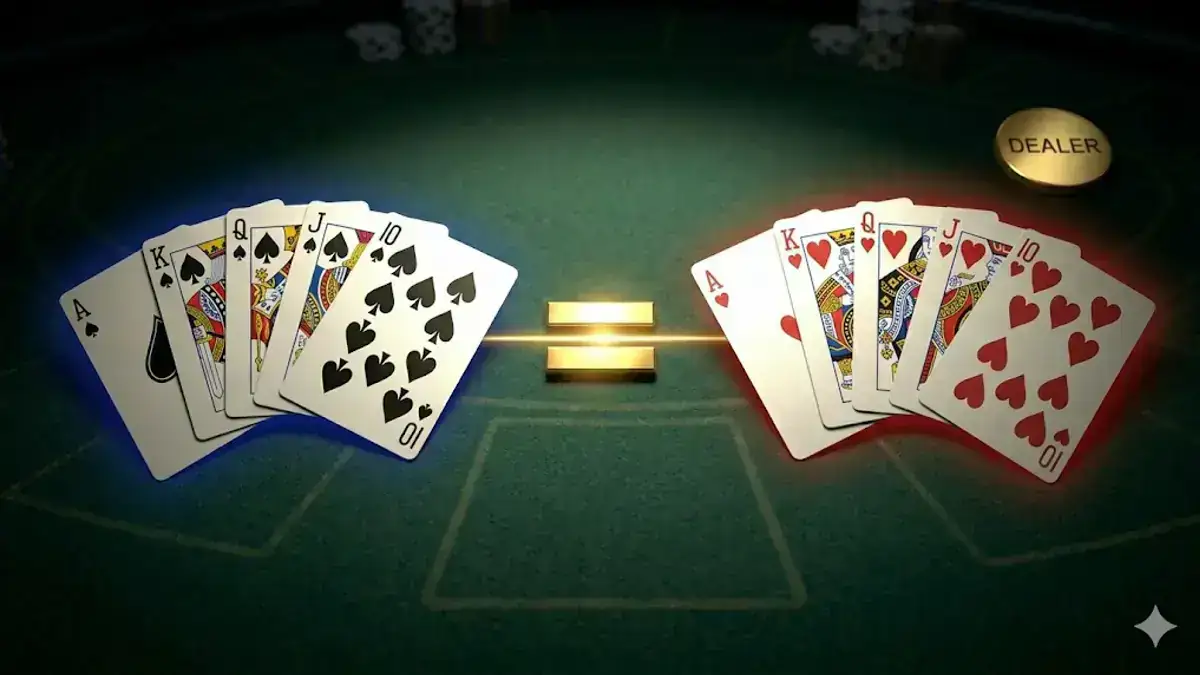
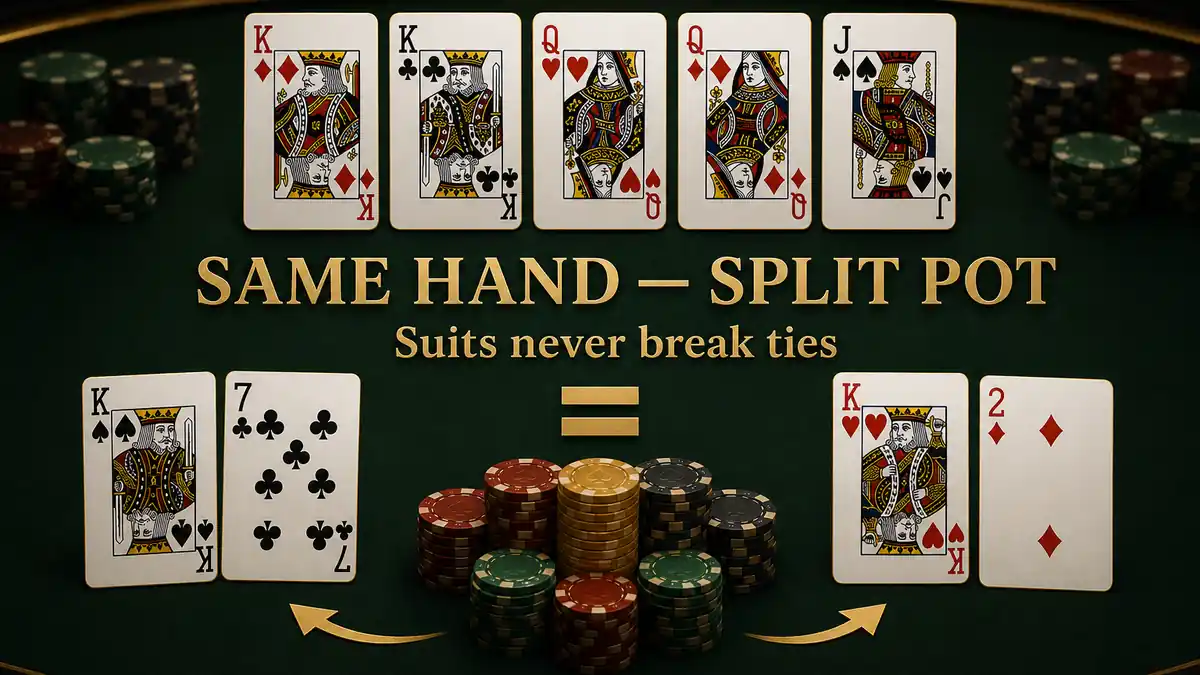
fix(images): outs 히어로·split-pot 이미지 홀덤 불가능 장면 교정 (Fable5 후속)
- holdem-outs-hero.webp: 5장 리버완료 보드에 "any 10=넛"(불가능) →
  플랍 3장(Q♠ J♦ 9♥)+A♥ K♥, 것샷 4아웃 정확판(생성=사용자, hero 파일명 덮어써
  outs 히어로 + 5개글 썸네일 ~18곳 en/es/ja 일괄 교정). imageAlt 5장→플랍 갱신.
- holdem-split-pot-suit-equals.webp: "스페이드로열=하트로열"(홀덤 불가) →
  K♠7♣ vs K♥2♦ @ K♦K♣Q♥Q♦J♠ 양쪽 킹풀 스플릿(실제 케이스). §13·철자 검수 통과.
- 둘 다 육안검수 완료(카드·철자·용량 OK).

diff --git a/lib/posts-en/holdem-outs.ts b/lib/posts-en/holdem-outs.ts
@@ -13,7 +13,7 @@ export const POST: Post = {
   readTime: "11 min",
   emoji: "🎯",
   image: "/images/holdem-outs-hero.webp",
-  imageAlt: "Infographic of counting outs — A♥ K♥ against a Q♠ J♦ 9♥ 4♣ 2♠ board where any ten completes the nut straight",
+  imageAlt: "Infographic of counting outs — A♥ K♥ against a Q♠ J♦ 9♥ flop where any ten completes the nut straight",
   tags: ["outs", "how to count outs in poker", "poker outs chart", "flush draw outs", "straight draw outs", "outs to odds", "dirty outs", "rule of 4 and 2"],
   content: `
 For my first year at the table I "played my draws" without ever counting them. A flush draw and a gutshot felt about the same — both were "cards that could come" — so I called the same on both and wondered why I kept losing. The fix wasn't a strategy course. It was a five-minute habit: ==stop, and actually count the cards that save me.==

diff --git a/lib/posts-es/holdem-outs.ts b/lib/posts-es/holdem-outs.ts
@@ -14,7 +14,7 @@ export const POST: Post = {
   readTime: "11 min",
   emoji: "🎯",
   image: "/images/holdem-outs-hero.webp",
-  imageAlt: "Infografía de conteo de outs — A♥ K♥ contra una mesa Q♠ J♦ 9♥ 4♣ 2♠ donde cualquier diez completa la escalera máxima",
+  imageAlt: "Infografía de conteo de outs — A♥ K♥ contra un flop Q♠ J♦ 9♥ donde cualquier diez completa la escalera máxima",
   tags: ["outs poker", "outs poker que son", "como contar outs", "tabla de outs poker", "outs proyecto de color", "outs proyecto de escalera", "regla del 2 y 4", "outs muertas"],
   content: `
 Durante mi primer año en las mesas "jugaba mis proyectos" sin contarlos nunca. Un proyecto de color y un gutshot me parecían más o menos lo mismo — ambos eran "cartas que podían salir" — así que igualaba lo mismo en los dos y me preguntaba por qué seguía perdiendo. El arreglo no fue un curso de estrategia. Fue un hábito de cinco minutos: ==para y cuenta de verdad las cartas que me salvan.==

diff --git a/lib/posts-ja/holdem-outs.ts b/lib/posts-ja/holdem-outs.ts
@@ -14,7 +14,7 @@ export const POST: Post = {
   readTime: "11分",
   emoji: "🎯",
   image: "/images/holdem-outs-hero.webp",
-  imageAlt: "アウツを数えるインフォグラフィック — Q♠ J♦ 9♥ 4♣ 2♠ のボードに対して A♥ K♥ を持ち、どの10でもナッツストレートが完成する場面",
+  imageAlt: "アウツを数えるインフォグラフィック — Q♠ J♦ 9♥ のフロップに対して A♥ K♥ を持ち、どの10でもナッツストレートが完成する場面",
   tags: ["アウツ とは", "アウツ 計算", "ポーカー アウツ", "アウツ 一覧", "フラッシュドロー アウツ", "ストレートドロー アウツ", "アウツ 確率", "2倍4倍の法則"],
   content: `
 テーブルに座り始めた最初の1年、私は自分のドローを一度も数えずに「ドローで勝負」していました。フラッシュドローとガットショットが、どちらも「まだ来るかもしれないカード」として同じに感じられて——だから両方に同じようにコールして、なぜ負け続けるのか分かっていませんでした。それを直したのは戦略講座ではありません。たった5分の習慣でした。==止まって、自分を救ってくれるカードを実際に数える。==